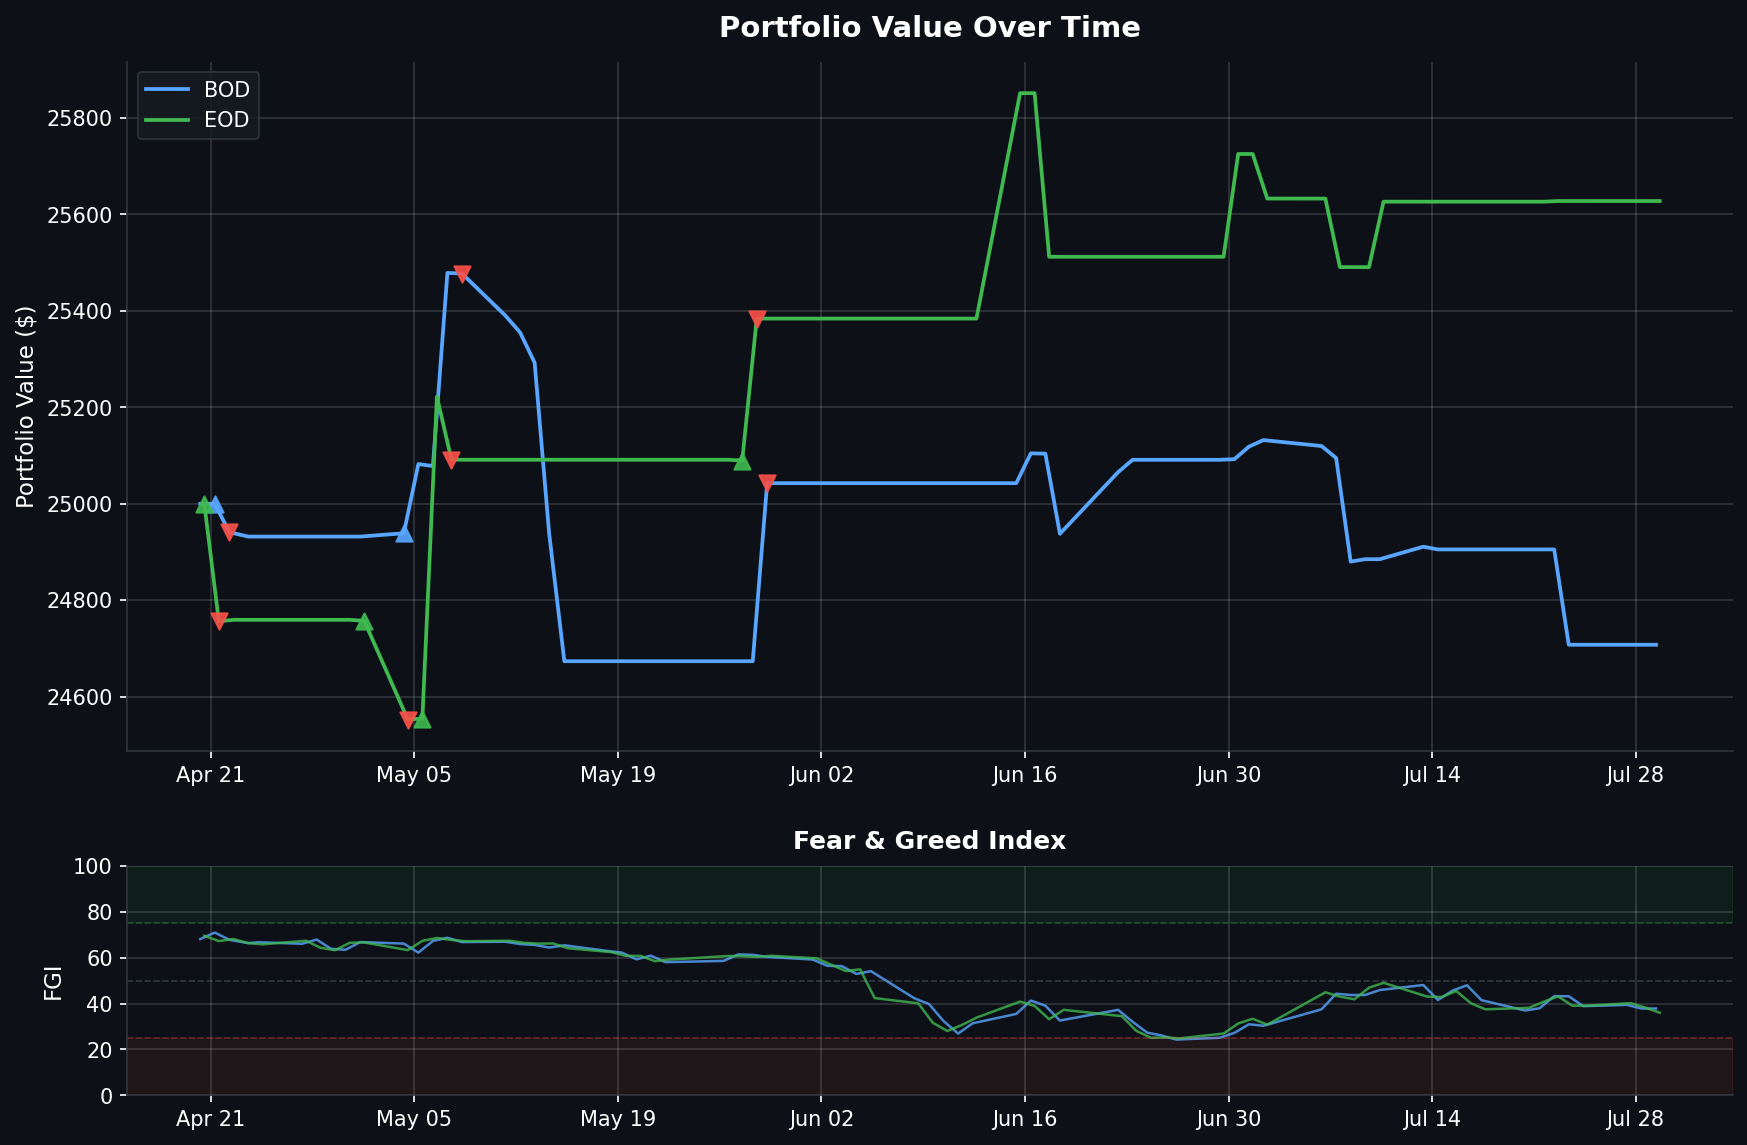
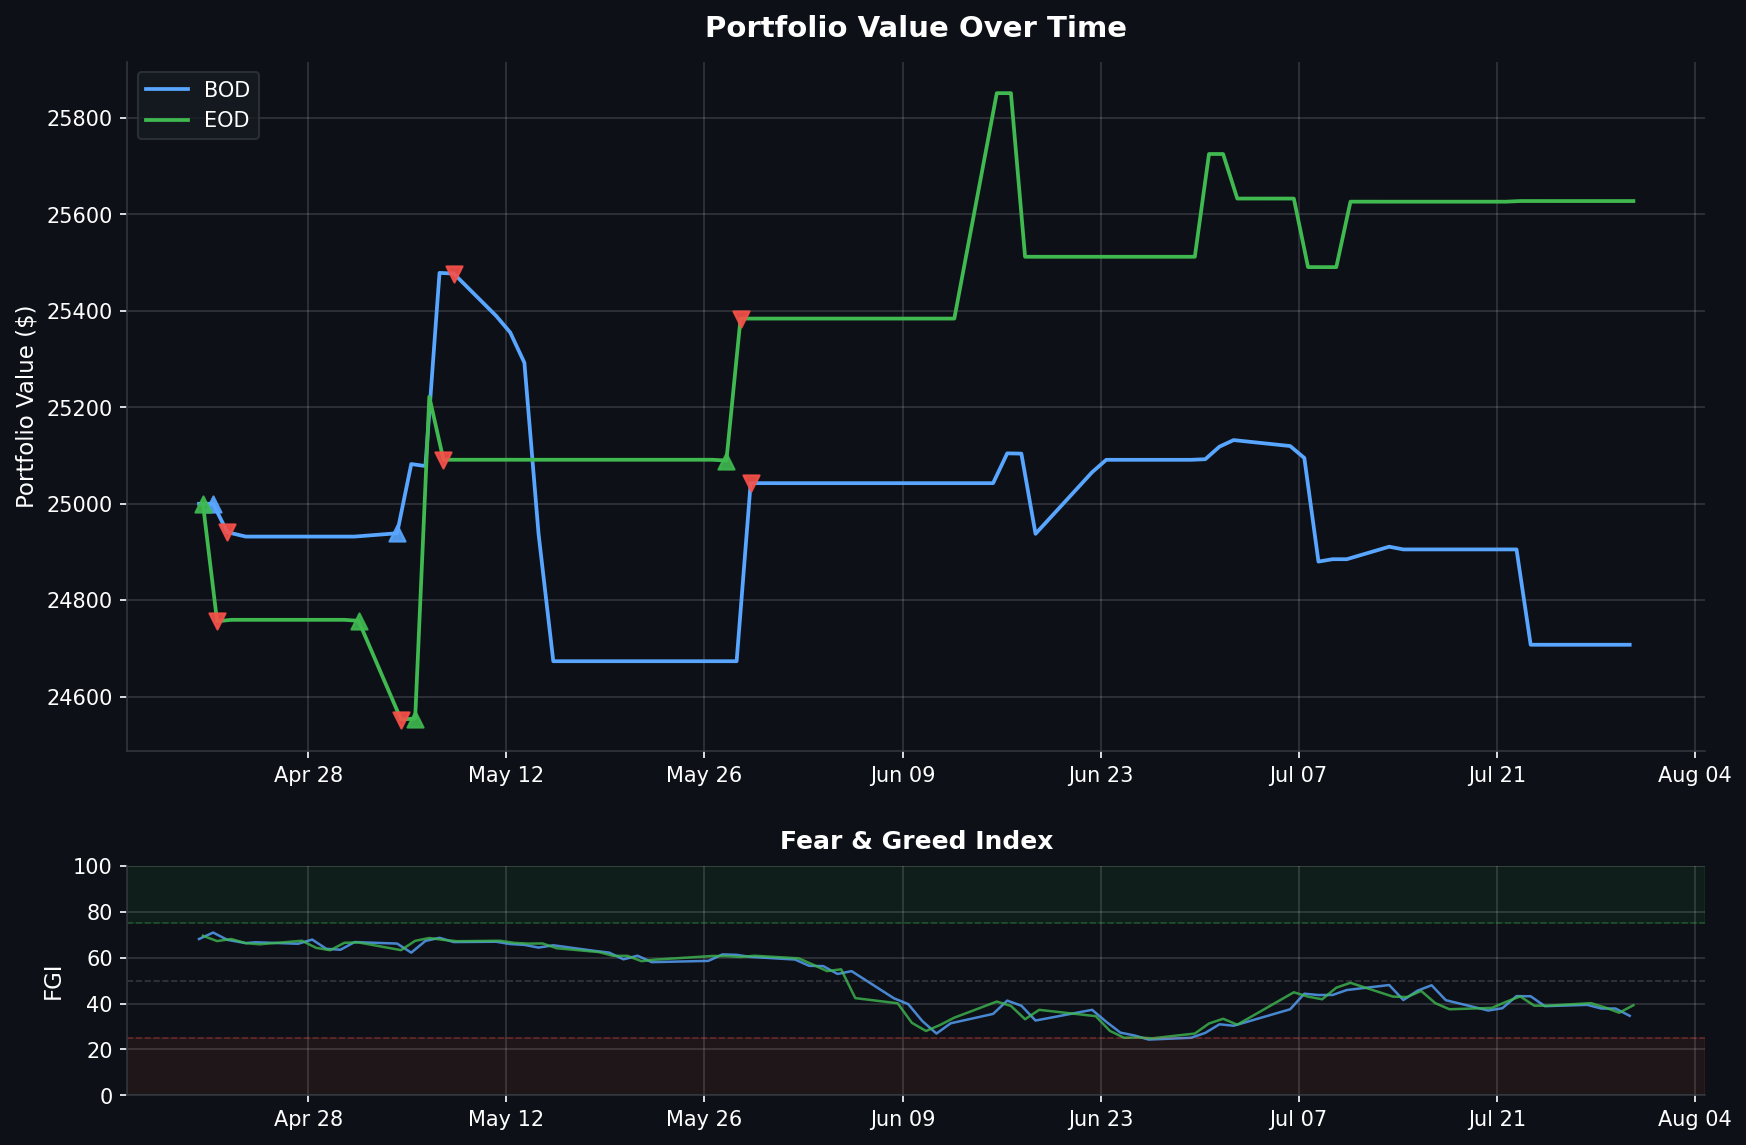
Daily data backup 2026-07-30

diff --git a/README.md b/README.md
@@ -1,6 +1,6 @@
 # Fear & Greed Index Trading Bot
 
-> Dashboard auto-updated daily at market close | Last update: **2026-07-29 13:30 PST**
+> Dashboard auto-updated daily at market close | Last update: **2026-07-30 13:30 PST**
 
 ![Portfolio Performance](assets/portfolio_chart.png)
 
@@ -12,12 +12,12 @@
 |--------|-------|
 | Portfolio Value | **$24,707.74** |
 | Buying Power | $98,830.96 |
-| Current FGI | 37.83 |
+| Current FGI | 34.66 |
 | Position | FLAT |
 | Total P&L | **$+995** |
 | Win Rate | 50% (1W / 1L) |
 | Total Round Trips | 2 |
-| Last Signal | NO_ACTION @ 2026-07-29 09:35 |
+| Last Signal | NO_ACTION @ 2026-07-30 09:35 |
 
 <details>
 <summary>Trade History (2 trades)</summary>
@@ -34,11 +34,11 @@
 
 | Time | Action | Price | FGI | Momentum | Velocity | Volatility | Reason |
 |------|--------|-------|-----|----------|----------|------------|--------|
+| 07-30 09:35 | NO_ACTION | $735.64 | 34.66 | -2.11 | -1.59 | 0.55 | Insufficient momentum/velocity for entry |
 | 07-29 09:35 | NO_ACTION | $739.73 | 37.83 | -0.53 | -0.34 | 0.55 | Insufficient momentum/velocity for entry |
 | 07-28 09:35 | NO_ACTION | $738.66 | 37.83 | -0.88 | -1.78 | 0.55 | Insufficient momentum/velocity for entry |
 | 07-27 09:35 | NO_ACTION | $744.34 | 39.43 | -1.06 | -1.27 | 0.55 | Insufficient momentum/velocity for entry |
 | 07-24 09:35 | NO_ACTION | $739.53 | 38.86 | -2.89 | 0.30 | 0.55 | Insufficient momentum/velocity for entry |
-| 07-23 09:35 | NO_ACTION | $741.20 | 43.17 | 1.71 | 2.07 | 0.55 | SELL incomplete - still holding 33 after 5 attempts |
 
 </details>
 
@@ -50,12 +50,12 @@
 |--------|-------|
 | Portfolio Value | **$25,627.80** |
 | Buying Power | $102,511.20 |
-| Current FGI | 36.0 |
+| Current FGI | 39.26 |
 | Position | FLAT |
 | Total P&L | **$+302** |
 | Win Rate | 50% (2W / 2L) |
 | Total Round Trips | 4 |
-| Last Signal | NO_ACTION @ 2026-07-29 15:50 |
+| Last Signal | NO_ACTION @ 2026-07-30 15:50 |
 
 <details>
 <summary>Trade History (4 trades)</summary>
@@ -74,11 +74,11 @@
 
 | Time | Action | Price | FGI | Momentum | Velocity | Volatility | Reason |
 |------|--------|-------|-----|----------|----------|------------|--------|
+| 07-30 15:50 | NO_ACTION | $741.45 | 39.26 | 1.41 | -0.30 | 0.55 | Insufficient momentum/velocity for entry |
 | 07-29 15:50 | NO_ACTION | $731.43 | 36.0 | -2.15 | -1.03 | 0.55 | Insufficient momentum/velocity for entry |
 | 07-28 15:50 | NO_ACTION | $741.12 | 38.29 | -0.89 | -0.26 | 0.55 | Insufficient momentum/velocity for entry |
 | 07-27 15:50 | NO_ACTION | $739.08 | 40.17 | 0.73 | -0.98 | 0.55 | Insufficient momentum/velocity for entry |
 | 07-24 15:50 | NO_ACTION | $738.29 | 39.09 | -1.33 | -0.55 | 0.55 | Insufficient momentum/velocity for entry |
-| 07-23 15:50 | NO_ACTION | $736.39 | 39.06 | -1.91 | 0.32 | 0.55 | Insufficient momentum/velocity for entry |
 
 </details>
 
